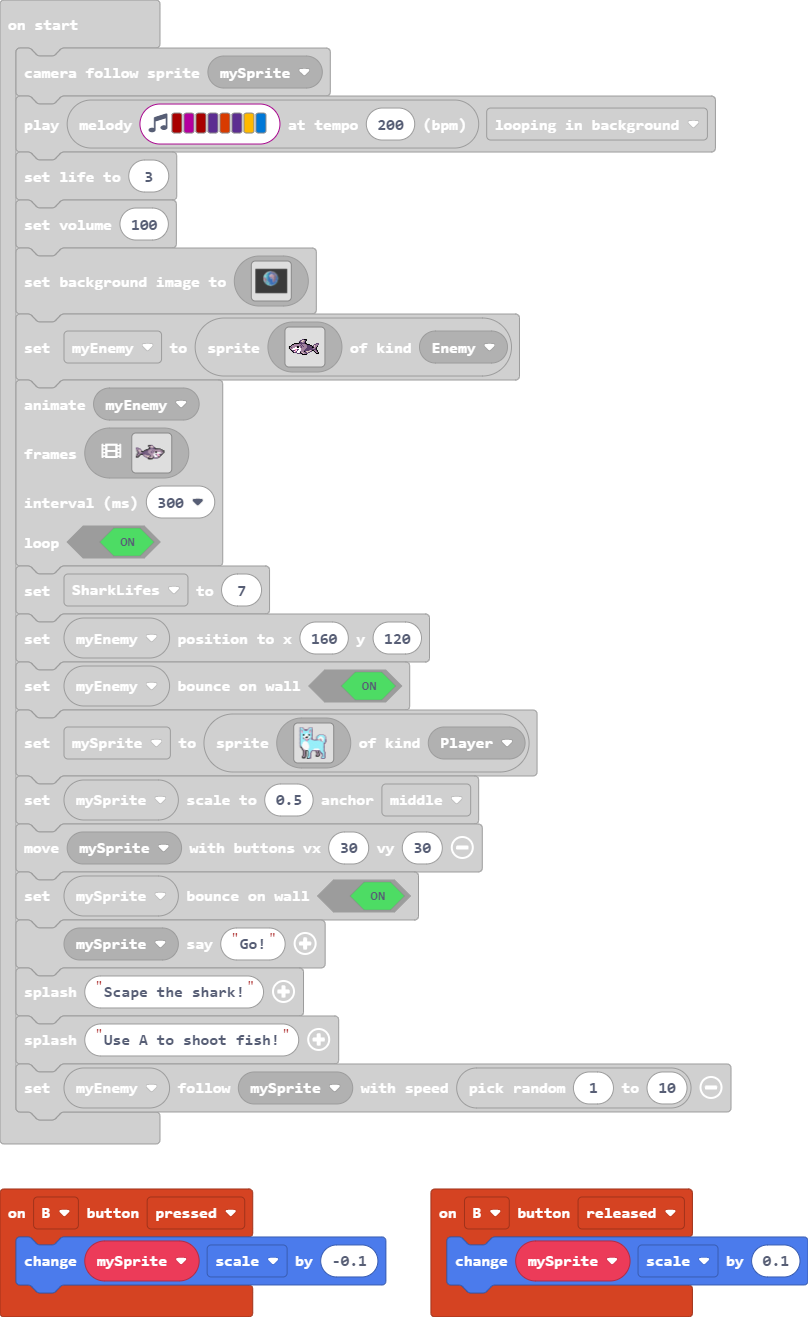
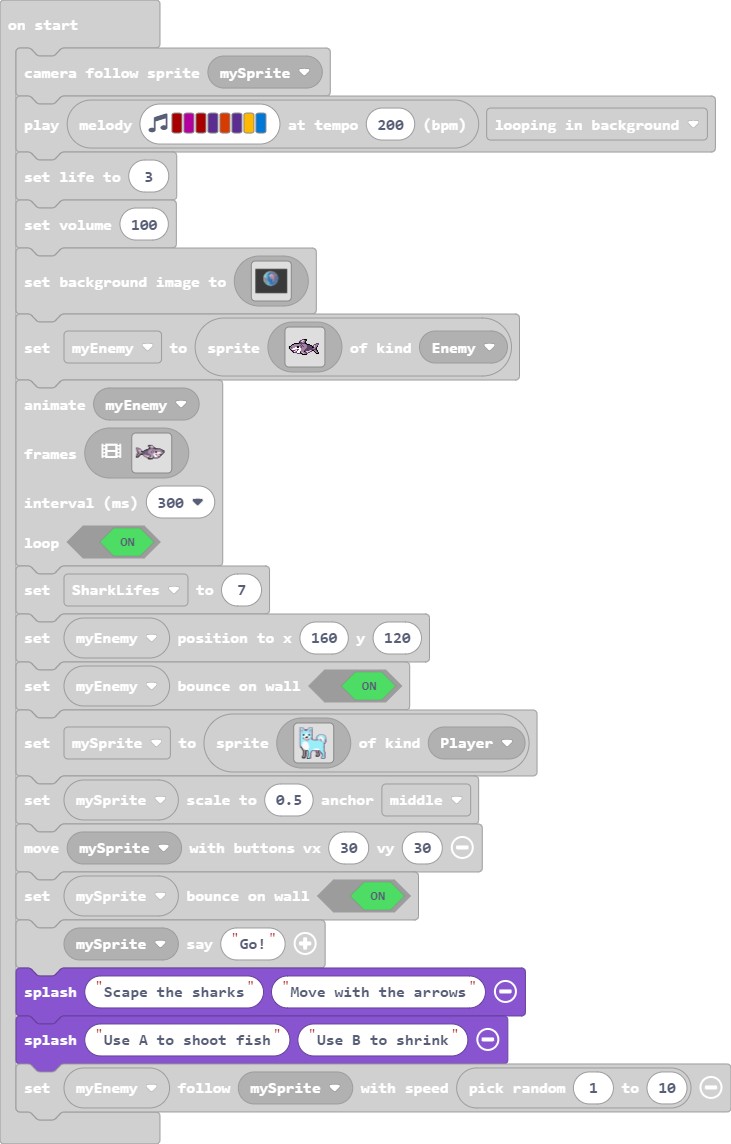
Changing initial instructions

diff --git a/main.ts b/main.ts
@@ -69,8 +69,8 @@ mySprite.setScale(0.5, ScaleAnchor.Middle)
 controller.moveSprite(mySprite, 30, 30)
 mySprite.setBounceOnWall(true)
 mySprite.sayText("Go!")
-game.splash("Scape the shark!")
-game.splash("Use A to shoot fish!")
+game.splash("Scape the sharks", "Move with the arrows")
+game.splash("Use A to shoot fish", "Use B to shrink")
 myEnemy.follow(mySprite, randint(1, 10))
 forever(function () {
     if (SharkLifes <= 0) {
